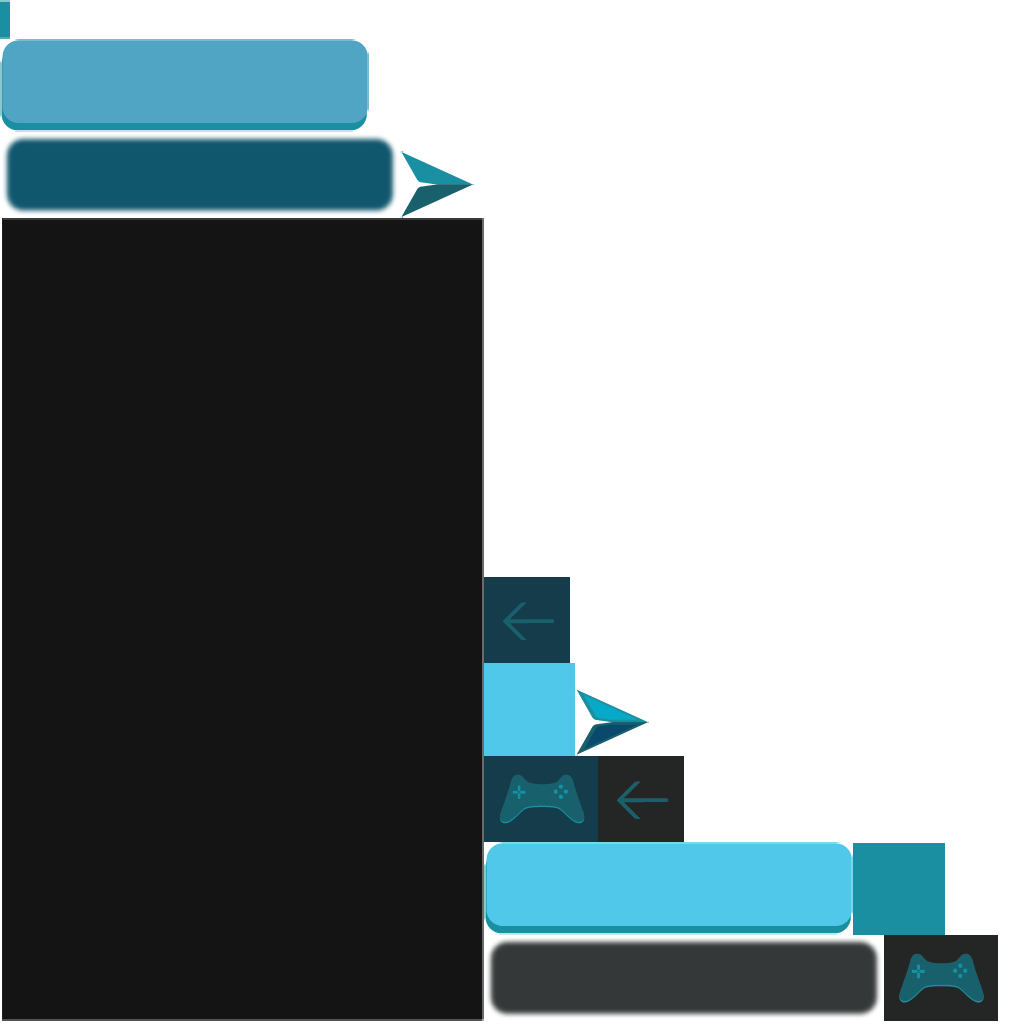
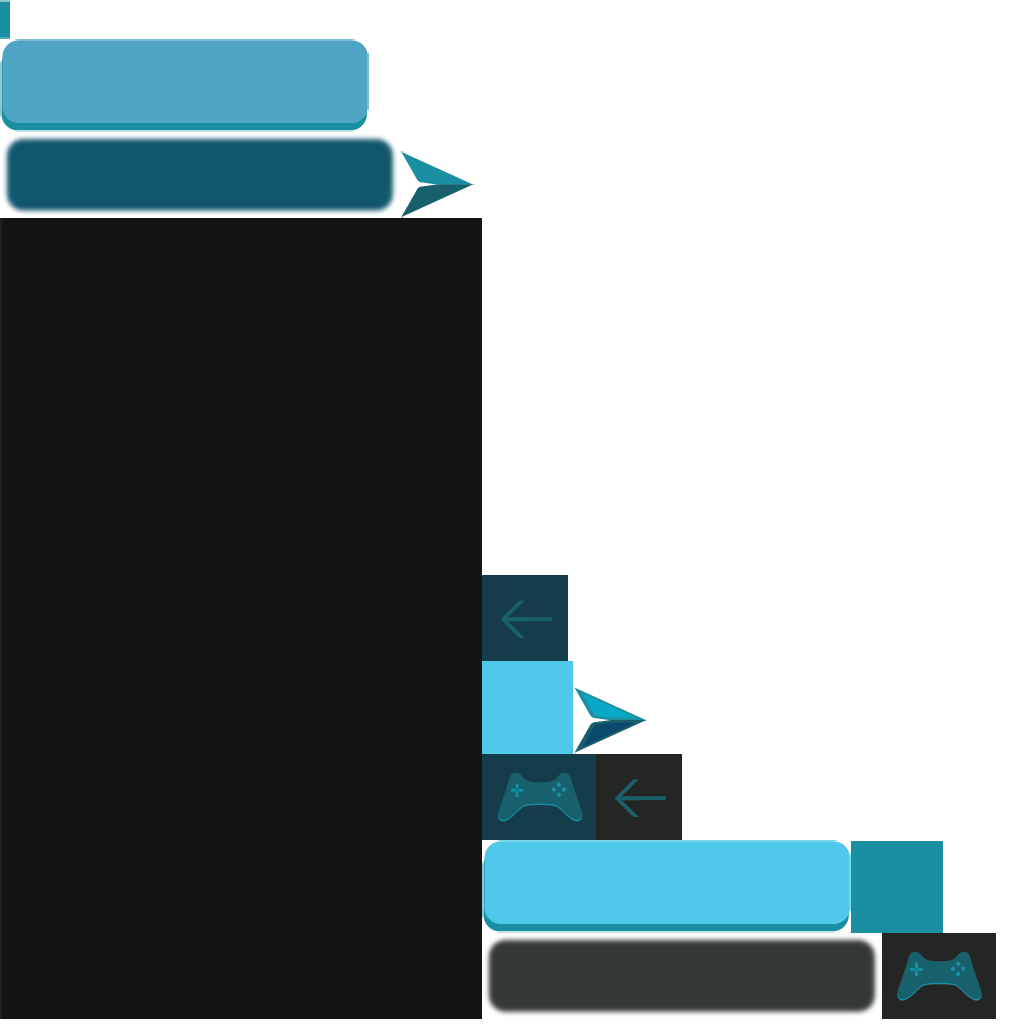
Implement android back && adjust menu_bg

diff --git a/core/src/com/github/bot/curiosone/app/chat/screens/OptionScreen.java b/core/src/com/github/bot/curiosone/app/chat/screens/OptionScreen.java
@@ -2,7 +2,11 @@ package com.github.bot.curiosone.app.chat.screens;
 
 import com.badlogic.gdx.Gdx;
 import com.badlogic.gdx.Input;
+import com.badlogic.gdx.InputAdapter;
+import com.badlogic.gdx.InputMultiplexer;
+import com.badlogic.gdx.InputProcessor;
 import com.badlogic.gdx.Preferences;
+import com.badlogic.gdx.Screen;
 import com.badlogic.gdx.scenes.scene2d.InputEvent;
 import com.badlogic.gdx.scenes.scene2d.actions.Actions;
 import com.badlogic.gdx.scenes.scene2d.ui.Button;
@@ -12,6 +16,7 @@ import com.badlogic.gdx.scenes.scene2d.ui.TextButton;
 import com.badlogic.gdx.scenes.scene2d.utils.ClickListener;
 import com.github.bot.curiosone.app.chat.helpers.AbstractScreen;
 import com.github.bot.curiosone.app.chat.helpers.AssetLoader;
+import com.github.bot.curiosone.app.chat.helpers.Backable;
 import com.github.bot.curiosone.app.chat.helpers.ChatElementFactory;
 import com.github.bot.curiosone.app.chat.helpers.ScreenEnum;
 import com.github.bot.curiosone.app.chat.helpers.ScreenManager;
@@ -22,8 +27,9 @@ import static com.github.bot.curiosone.app.chat.helpers.ChatElementFactory.Style
 /*
  * Option Screen is the screen of options
  * */
-public class OptionScreen extends AbstractScreen {
-  private TextButton style1, style2, menuButton;
+public class OptionScreen extends AbstractScreen implements Backable{
+  private static Screen prevScreen;
+  private TextButton style1, style2;
   private Dialog dialog;
   private Preferences prefs;
   private StyleEnum selectedStyle;
@@ -35,7 +41,6 @@ public class OptionScreen extends AbstractScreen {
 
     style1 = ChatElementFactory.getButton("Futuristic", "textButton1");
     style2 = ChatElementFactory.getButton("Dark Blue", "textButton2");
-    menuButton = new TextButton("Menu da eliminare", AssetLoader.defaultSkin);
     bg = ChatElementFactory.getMenuBackground();
 
     this.dialog =
@@ -48,13 +53,12 @@ public class OptionScreen extends AbstractScreen {
     dialog.padTop(20).padBottom(20);
     dialog.text("Are you sure to change style? \n (if you do that, chat will be deleted)").button("Yes", true).button("No", false).key(Input.Keys.ENTER, true).key(Input.Keys.ESCAPE, false);
 
-    menuButton.addListener(ScreenManager.getListener(ScreenEnum.MENU));
     style1.addListener(getStyleClickListener(FUTURISTIC, style1));
 
     style2.addListener(getStyleClickListener(MODERN, style2));
 
-    reorder(0f, menuButton, style1, style2);
-    addActors(bg, style1, style2, menuButton);
+    reorder(0f, style1, style2);
+    addActors(bg, style1, style2);
   }
 
   private void dialogThen(boolean b, StyleEnum style) {
@@ -84,4 +88,25 @@ public class OptionScreen extends AbstractScreen {
     this.addAction(Actions.sequence(Actions.alpha(0), Actions.fadeIn(0.2f)));
   }
 
+  @Override
+  public void setPrevScreen(Screen screen) {
+    prevScreen = screen;
+  }
+
+  @Override
+  public void show() {
+    InputProcessor backProcessor = new InputAdapter() {
+      @Override
+      public boolean keyDown(int keycode) {
+        if ((keycode == Input.Keys.ESCAPE) || (keycode == Input.Keys.BACK) ) {
+          System.out.print(true);
+          ScreenManager.getInstance().showScreen(prevScreen);
+        }
+        return false;
+      }
+    };
+    InputMultiplexer multiplexer = new InputMultiplexer(backProcessor, this);
+    Gdx.input.setInputProcessor(multiplexer);
+    Gdx.input.setCatchBackKey(true);
+  }
 }

diff --git a/core/src/com/github/bot/curiosone/app/workflow/GameCenter2.java b/core/src/com/github/bot/curiosone/app/workflow/GameCenter2.java
@@ -1,5 +1,11 @@
 package com.github.bot.curiosone.app.workflow;
 
+import com.badlogic.gdx.Gdx;
+import com.badlogic.gdx.Input;
+import com.badlogic.gdx.InputAdapter;
+import com.badlogic.gdx.InputMultiplexer;
+import com.badlogic.gdx.InputProcessor;
+import com.badlogic.gdx.Screen;
 import com.badlogic.gdx.scenes.scene2d.InputEvent;
 import com.badlogic.gdx.scenes.scene2d.actions.Actions;
 import com.badlogic.gdx.scenes.scene2d.ui.Image;
@@ -8,6 +14,7 @@ import com.badlogic.gdx.scenes.scene2d.utils.ClickListener;
 import com.github.bot.curiosone.app.chat.Chat;
 import com.github.bot.curiosone.app.chat.helpers.AbstractScreen;
 import com.github.bot.curiosone.app.chat.helpers.AssetLoader;
+import com.github.bot.curiosone.app.chat.helpers.Backable;
 import com.github.bot.curiosone.app.chat.helpers.ChatElementFactory;
 import com.github.bot.curiosone.app.chat.helpers.ScreenEnum;
 import com.github.bot.curiosone.app.chat.helpers.ScreenManager;
@@ -18,7 +25,8 @@ import com.github.bot.curiosone.app.games.wordcrush.screen.MenuScreen;
 /*
  * this class is the gamecenter screen
  * */
-public class GameCenter2 extends AbstractScreen {
+public class GameCenter2 extends AbstractScreen implements Backable {
+  private static Screen prevScreen;
   private TextButton arkanoid,wordCrush,endlessRoad, buildWords,chat, airborneassault;
   private Image bg;
 
@@ -81,5 +89,25 @@ public class GameCenter2 extends AbstractScreen {
     this.addAction(Actions.sequence(Actions.alpha(0), Actions.fadeIn(0.2f)));
   }
 
+  @Override
+  public void show() {
+    InputProcessor backProcessor = new InputAdapter() {
+      @Override
+      public boolean keyDown(int keycode) {
+        if ((keycode == Input.Keys.ESCAPE) || (keycode == Input.Keys.BACK) ) {
+          System.out.print(true);
+          ScreenManager.getInstance().showScreen(prevScreen);
+        }
+        return false;
+      }
+    };
+    InputMultiplexer multiplexer = new InputMultiplexer(backProcessor, this);
+    Gdx.input.setInputProcessor(multiplexer);
+    Gdx.input.setCatchBackKey(true);
+  }
 
+  @Override
+  public void setPrevScreen(Screen screen) {
+    prevScreen = screen;
+  }
 }

diff --git a/core/src/com/github/bot/curiosone/app/chat/screens/ChatScreen.java b/core/src/com/github/bot/curiosone/app/chat/screens/ChatScreen.java
@@ -1,17 +1,26 @@
 package com.github.bot.curiosone.app.chat.screens;
 
 import com.badlogic.gdx.Gdx;
+import com.badlogic.gdx.Input;
+import com.badlogic.gdx.InputAdapter;
+import com.badlogic.gdx.InputMultiplexer;
+import com.badlogic.gdx.InputProcessor;
 import com.badlogic.gdx.Screen;
 import com.badlogic.gdx.scenes.scene2d.actions.Actions;
 import com.github.bot.curiosone.app.chat.helpers.Actionable;
+import com.github.bot.curiosone.app.chat.helpers.Backable;
+import com.github.bot.curiosone.app.chat.helpers.ScreenEnum;
+import com.github.bot.curiosone.app.chat.helpers.ScreenManager;
 import com.github.bot.curiosone.app.chat.world.ChatRender;
 import com.github.bot.curiosone.app.chat.world.ChatWorld;
+import com.github.bot.curiosone.app.games.wordcrush.loaders.Assets;
+import com.github.bot.curiosone.app.games.wordcrush.loaders.AudioManager;
 
 
-public class ChatScreen implements Screen, Actionable {
-
+public class ChatScreen implements Screen, Actionable, Backable {
   private ChatRender renderer;
   private ChatWorld world;
+  private static Screen prevScreen;
 
   public ChatScreen() {
     this.world = new ChatWorld();
@@ -22,6 +31,17 @@ public class ChatScreen implements Screen, Actionable {
 
   @Override
   public void show() {
+    InputProcessor backProcessor = new InputAdapter() {
+      @Override
+      public boolean keyDown(int keycode) {
+        if ((keycode == Input.Keys.ESCAPE) || (keycode == Input.Keys.BACK) ) {
+          ScreenManager.getInstance().showScreen(prevScreen);
+        }
+        return false;
+      }
+    };
+    InputMultiplexer multiplexer = new InputMultiplexer(backProcessor, renderer.getStage());
+    Gdx.input.setInputProcessor(multiplexer);
   }
 
   @Override
@@ -62,4 +82,8 @@ public class ChatScreen implements Screen, Actionable {
     renderer.getStage().addAction(Actions.sequence(Actions.alpha(0), Actions.fadeIn(0.2f)));
   }
 
+  @Override
+  public void setPrevScreen(Screen screen) {
+    prevScreen = screen;
+  }
 }

diff --git a/core/src/com/github/bot/curiosone/app/chat/screens/MenuScreen.java b/core/src/com/github/bot/curiosone/app/chat/screens/MenuScreen.java
@@ -1,5 +1,10 @@
 package com.github.bot.curiosone.app.chat.screens;
 
+import com.badlogic.gdx.Gdx;
+import com.badlogic.gdx.Input;
+import com.badlogic.gdx.InputAdapter;
+import com.badlogic.gdx.InputMultiplexer;
+import com.badlogic.gdx.InputProcessor;
 import com.badlogic.gdx.scenes.scene2d.actions.Actions;
 import com.badlogic.gdx.scenes.scene2d.ui.Image;
 import com.badlogic.gdx.scenes.scene2d.ui.ImageTextButton;
@@ -34,6 +39,22 @@ public class MenuScreen extends AbstractScreen {
   @Override
   public void entryTransition() {
     this.addAction(Actions.sequence(Actions.alpha(0), Actions.fadeIn(0.2f)));
+  }
+
+  @Override
+  public void show() {
+    InputProcessor backProcessor = new InputAdapter() {
+      @Override
+      public boolean keyDown(int keycode) {
+        if ((keycode == Input.Keys.ESCAPE) || (keycode == Input.Keys.BACK) ) {
+          Gdx.app.exit();
+        }
+        return false;
+      }
+    };
+    InputMultiplexer multiplexer = new InputMultiplexer(backProcessor, this);
+    Gdx.input.setInputProcessor(multiplexer);
+    Gdx.input.setCatchBackKey(true);
   }
 
 }

diff --git a/core/src/com/github/bot/curiosone/app/chat/helpers/ScreenManager.java b/core/src/com/github/bot/curiosone/app/chat/helpers/ScreenManager.java
@@ -34,6 +34,13 @@ public class ScreenManager {
   public void showScreen(Screen screen) {
     Screen currentScreen = game.getScreen();
     Screen newScreen = screen;
+    if (newScreen instanceof Backable) {
+      try {
+        ((Backable) newScreen).setPrevScreen(currentScreen.getClass().newInstance());
+      } catch (InstantiationException | IllegalAccessException e) {
+        e.printStackTrace();
+      }
+    }
     if (newScreen instanceof Actionable) {
       ((Actionable) newScreen).entryTransition();
       if (newScreen instanceof AbstractScreen) {

diff --git a/core/src/com/github/bot/curiosone/app/chat/helpers/AssetLoader.java b/core/src/com/github/bot/curiosone/app/chat/helpers/AssetLoader.java
@@ -33,6 +33,7 @@ public class  AssetLoader {
         dispose();
         bg = new Image(new TextureAtlas(Gdx.files.internal("chat-asset/DarkBlue.atlas")).findRegion("chat_background"));
         menuBg = new Image(new TextureAtlas(Gdx.files.internal("chat-asset/DarkBlue.atlas")).findRegion("menu_background"));
+        menuBg.setSize(480, 800);
         skin = new Skin(Gdx.files.internal("chat-asset/DarkBlue.json"));
         ChatElementFactory.setStyle(MODERN);
         break;

diff --git a/core/src/com/github/bot/curiosone/app/chat/world/ChatRender.java b/core/src/com/github/bot/curiosone/app/chat/world/ChatRender.java
@@ -45,7 +45,6 @@ public class ChatRender {
     stage.addActor(world.getSendButton());
     stage.addActor(world.getInserimento());
     stage.addActor(world.getScrollPane());
-    Gdx.input.setInputProcessor(stage);
   }
 
   public Stage getStage() {

diff --git a/core/src/com/github/bot/curiosone/app/chat/helpers/Backable.java b/core/src/com/github/bot/curiosone/app/chat/helpers/Backable.java
@@ -1,0 +1,7 @@
+package com.github.bot.curiosone.app.chat.helpers;
+
+import com.badlogic.gdx.Screen;
+
+public interface Backable {
+  void setPrevScreen(Screen screen);
+}
